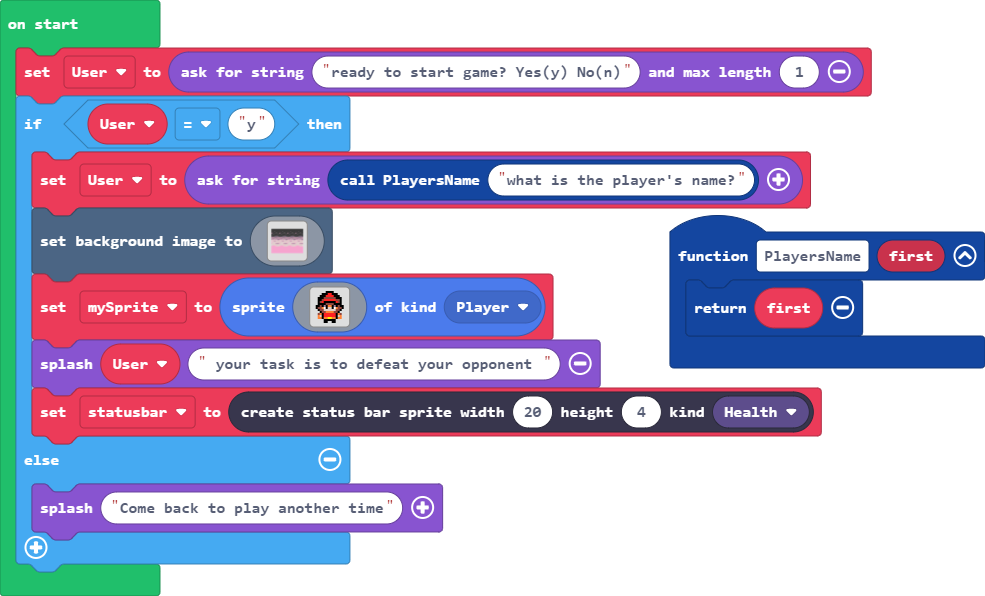
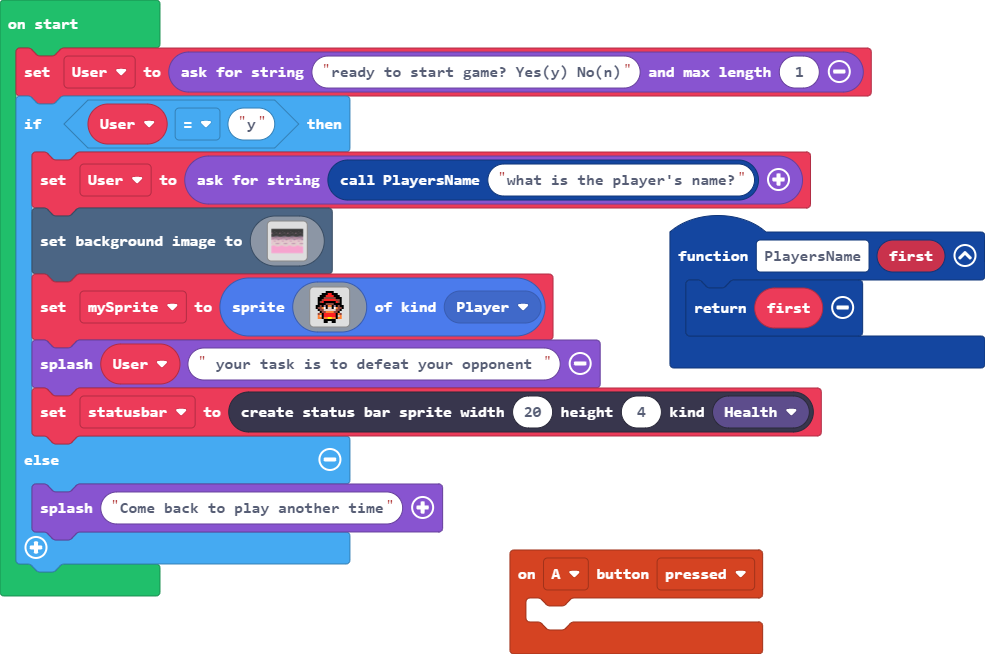
Update pxt.json, main.blocks, main.ts

diff --git a/main.ts b/main.ts
@@ -1,6 +1,9 @@
 function PlayersName (first: string) {
     return first
 }
+controller.A.onEvent(ControllerButtonEvent.Pressed, function () {
+	
+})
 let statusbar: StatusBarSprite = null
 let mySprite: Sprite = null
 let User = game.askForString("ready to start game? Yes(y) No(n)", 1)
